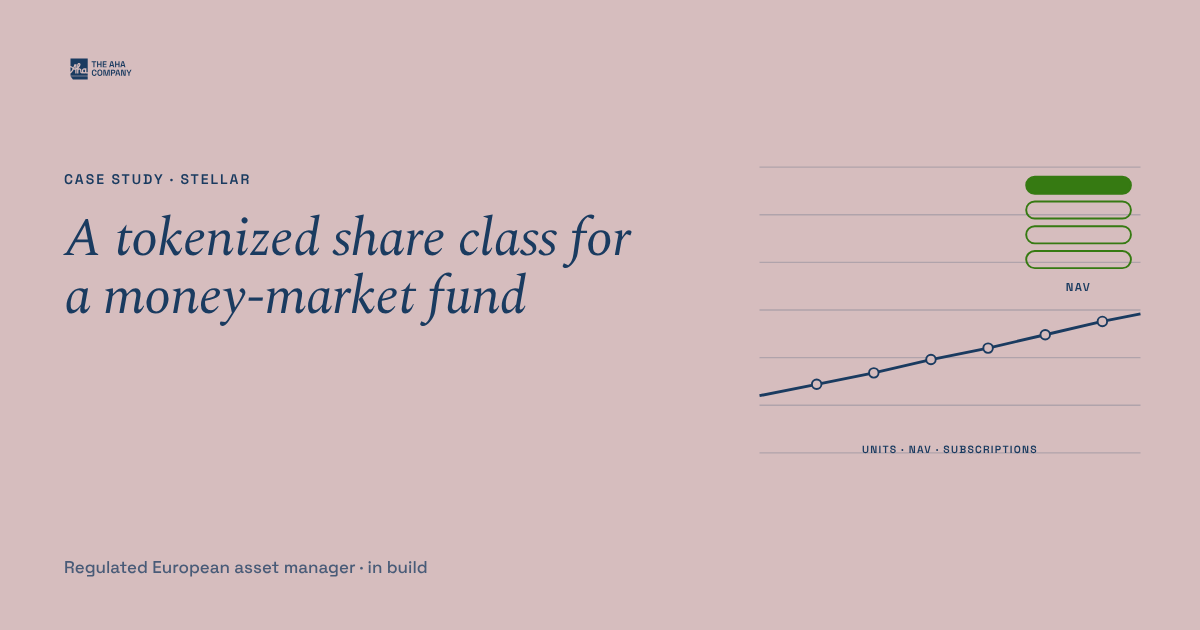
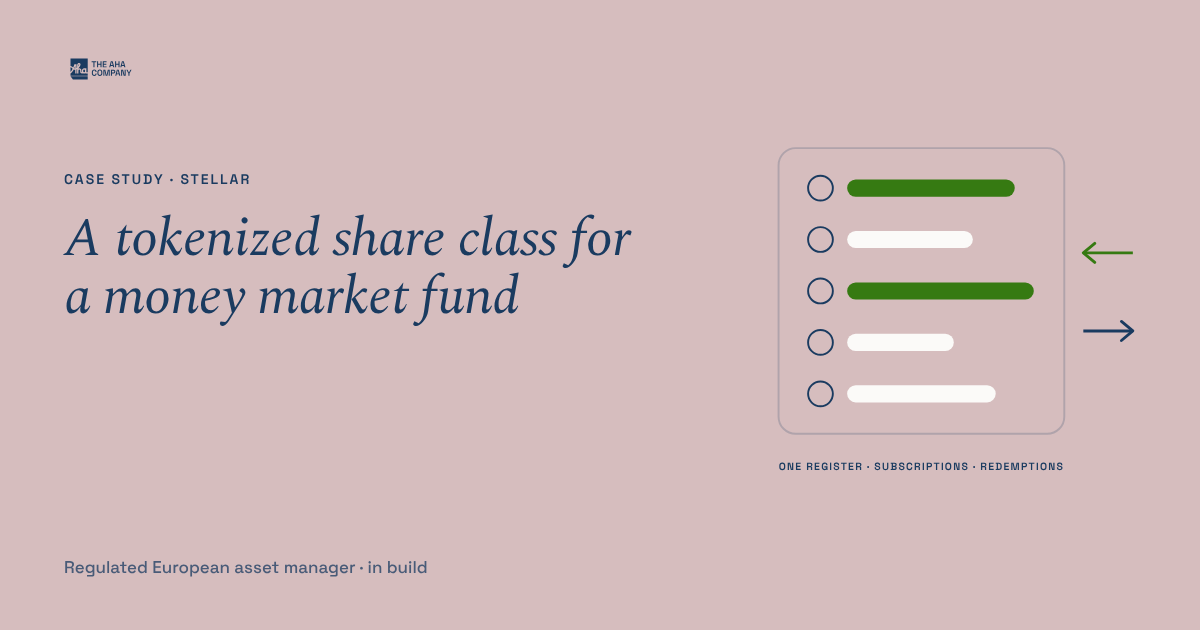
Revamp review fixes: shorter page, each fact once, one frame style
- Home order: the open-source band moves after Ways, next to Networks.
- Hero: the panel names each row's network in text, the bank row is dated,
  the audit chips say which engagement they cover; on phones the figures sit
  under the buttons and the credentials after the panel.
- Key figures: the four networks first (EURCV's figure stays in the panel).
- Logo band: clients only, in one tone; the networks row goes.
- Selected work: the short case lines; PwC leaves the home list (the hero
  credentials carry the alliance); 72 px thumbnails on phones; compact NDA
  rows on small phones.
- Open-source band: no second 137, consistent tool icons, the network shown
  only when it is not Stellar alone, one framed grid.
- Services: cards link to their audience on /services; the XRPL DevX audit
  joins the developer tooling precedents; the /services index goes; Ripple
  joins the ecosystems cases.
- Process: shorter institution steps. Ways and Networks: one framed grid.
- Page labels as pills on every page; arrows without duotone fill; people
  in one tone; capped line lengths; the closing title below the hero size.
- The fund and Ripple diagrams no longer read as rising charts.

Claude-Session: https://claude.ai/code/session_017KYF2hb2chXDABsF4eB264

Changed region(s): [[0.6475, 0.2714, 0.9558, 0.754], [0.2158, 0.4222, 0.4625, 0.5127], [0.6783, 0.2111, 0.8633, 0.2413]]

diff --git a/src/data/review.ts b/src/data/review.ts
@@ -25,7 +25,7 @@ export const review: ReviewItem[] = [
   { page: '/', target: '.nav_links', kind: 'changed', title: 'Navigation (every page)', note: 'Services, Work, Open source, Networks, About, and the call button. The blog link moved to the footer until there are more articles. On phones, a “Book a call” button sits next to Menu.' },
   { page: '/', target: '', kind: 'changed', title: 'Search titles and share images (every page)', note: 'Each page has a title under 60 characters, written for what people search (Stellar and Soroban development, tokenized money market fund, Scaffold Stellar...). Case studies, tools and articles share a 1200 × 630 image on LinkedIn and X.' },
   // ------------------------------------------------------------------ home
-  { page: '/', target: '#work-cases > .w-dyn-list', kind: 'changed', title: 'Order of the case studies', note: 'The three with a testimonial first (Stellar Development Foundation, LI.FI, Ripple), then Société Générale-FORGE. PwC US is shown as a co-selling alliance, without a link to a case page.' },
+  { page: '/', target: '#work-cases > .w-dyn-list', kind: 'changed', title: 'Order of the case studies', note: 'The three with a testimonial first (Stellar Development Foundation, LI.FI, Ripple), then Société Générale-FORGE. The PwC US co-selling alliance is in the hero credentials, and stays on the Work page without a link.' },
   { page: '/', target: '[data-rv=card-footer], [data-rv=stat-os]', kind: 'new', title: '137 projects', note: '“137 projects use our open-source tools”, in the key figures under the hero, with a link to how it is counted. Also in the open-source band below.' },
   { page: '/', target: '.work_all', kind: 'new', title: 'Link to all the work', note: 'Under the selection, a link to the Work page (case studies, tools and articles).' },
   { page: '/', target: '.logos_section', kind: 'changed', title: 'Logo band', note: 'Static instead of scrolling: every logo is shown whole, and nothing on the page moves without a way to stop it.' },

diff --git a/src/styles/visual.css b/src/styles/visual.css
@@ -49,3 +49,20 @@
 /* Network pages: icons on the integration items and the steps */
 .nx_invicon { margin-bottom: 16px; }
 .nx_stephead { display: flex; align-items: center; justify-content: space-between; gap: 12px; }
+
+/* Page label above each page title (the pill), with the old label's spacing */
+.page_eyebrow { margin-bottom: 4px; }
+
+/* Arrow icons are drawn without their duotone fill (at small sizes it reads as a box) */
+.kpi_linkicon .icon [opacity], .wd-arrow .icon [opacity], .lg_arrow .icon [opacity] { opacity: 0; }
+
+/* Client logos in one tone; a linked tile gets its colours back on hover */
+.lg_logo { filter: grayscale(1); opacity: .82; transition: filter .2s, opacity .2s; }
+.lg_tile--link:hover .lg_logo, .lg_tile--link:focus-visible .lg_logo { filter: none; opacity: 1; }
+
+/* People in one tone: testimonial portraits and the engineers' faces */
+.work_portrait, .cta_faces img, .fc_faces img { filter: grayscale(1) contrast(1.04); }
+
+/* Line lengths: case lines and quotes stay readable on mid-size screens */
+.hw_link .work_para { max-width: 66ch; }
+.work_blockquote { max-width: 46ch; }

diff --git a/src/components/home/services-data.ts b/src/components/home/services-data.ts
@@ -89,9 +89,9 @@ export const services: Service[] = [
     audience: 'ecosystems',
     bullets: ['CLIs and scaffolding', 'Registries and sandboxes', 'Maintained as public goods'],
     precedents: [
+      { kind: 'client', logo: `${LOGOS}/logo-light-ripple.svg`, alt: 'Ripple', w: 54, h: 14, text: 'XRPL DevX audit', href: '/case-studies/ripple' },
       { kind: 'tool', icon: 'terminal-window', text: 'Stellar CLI plugins and bindings', href: '/open-source/stellar-cli' },
       { kind: 'tool', icon: 'stack', text: 'Stellar Scaffold', href: '/open-source/stellar-scaffold' },
-      { kind: 'tool', icon: 'package', text: 'Stellar Registry', href: '/open-source/stellar-registry' },
     ],
   },
   {

diff --git a/src/data/curation.ts b/src/data/curation.ts
@@ -3,7 +3,7 @@
 
 /** Home page, "Selected work" > Case studies. */
 // Case studies with a testimonial first, then the others.
-export const homeFeaturedCases = ["stellar-development-foundation", "lifi", "ripple", "societe-generale-forge", "pwc"];
+export const homeFeaturedCases = ["stellar-development-foundation", "lifi", "ripple", "societe-generale-forge"];
 
 /** Home page, "Client under NDA" block under the case studies. */
 export const homeNdaCases = ["nda-settlement-stablecoin", "nda-money-market-fund", "nda-real-estate-debt-fund"];

diff --git a/src/lib/toolIcons.ts b/src/lib/toolIcons.ts
@@ -1,0 +1,13 @@
+// One icon per open-source tool (src/icons), used wherever a tool appears
+// (home band, service precedents). The tool thumbnails on /work were drawn
+// with the same icons.
+export const toolIcons: Record<string, string> = {
+  'stellar-cli': 'terminal-window',
+  'stellar-scaffold': 'stack',
+  'stellar-registry': 'package',
+  nido: 'fingerprint',
+  perch: 'shield-check',
+  moonlight: 'moon',
+  tansu: 'users-three',
+  ghostsig: 'ghost',
+};

diff --git a/src/lib/visuals.ts b/src/lib/visuals.ts
@@ -45,7 +45,7 @@ const audience = (a = '') => AUDIENCE[a] || { tone: 'tan' as Tone, icon: 'cube' 
 // does (the NDA block on the home page). Generic on purpose: no client detail.
 const CASE_ICONS: Record<string, string> = {
   'nda-settlement-stablecoin': 'bank',
-  'nda-money-market-fund': 'chart-line-up',
+  'nda-money-market-fund': 'certificate',
   'nda-real-estate-debt-fund': 'buildings',
 };
 
